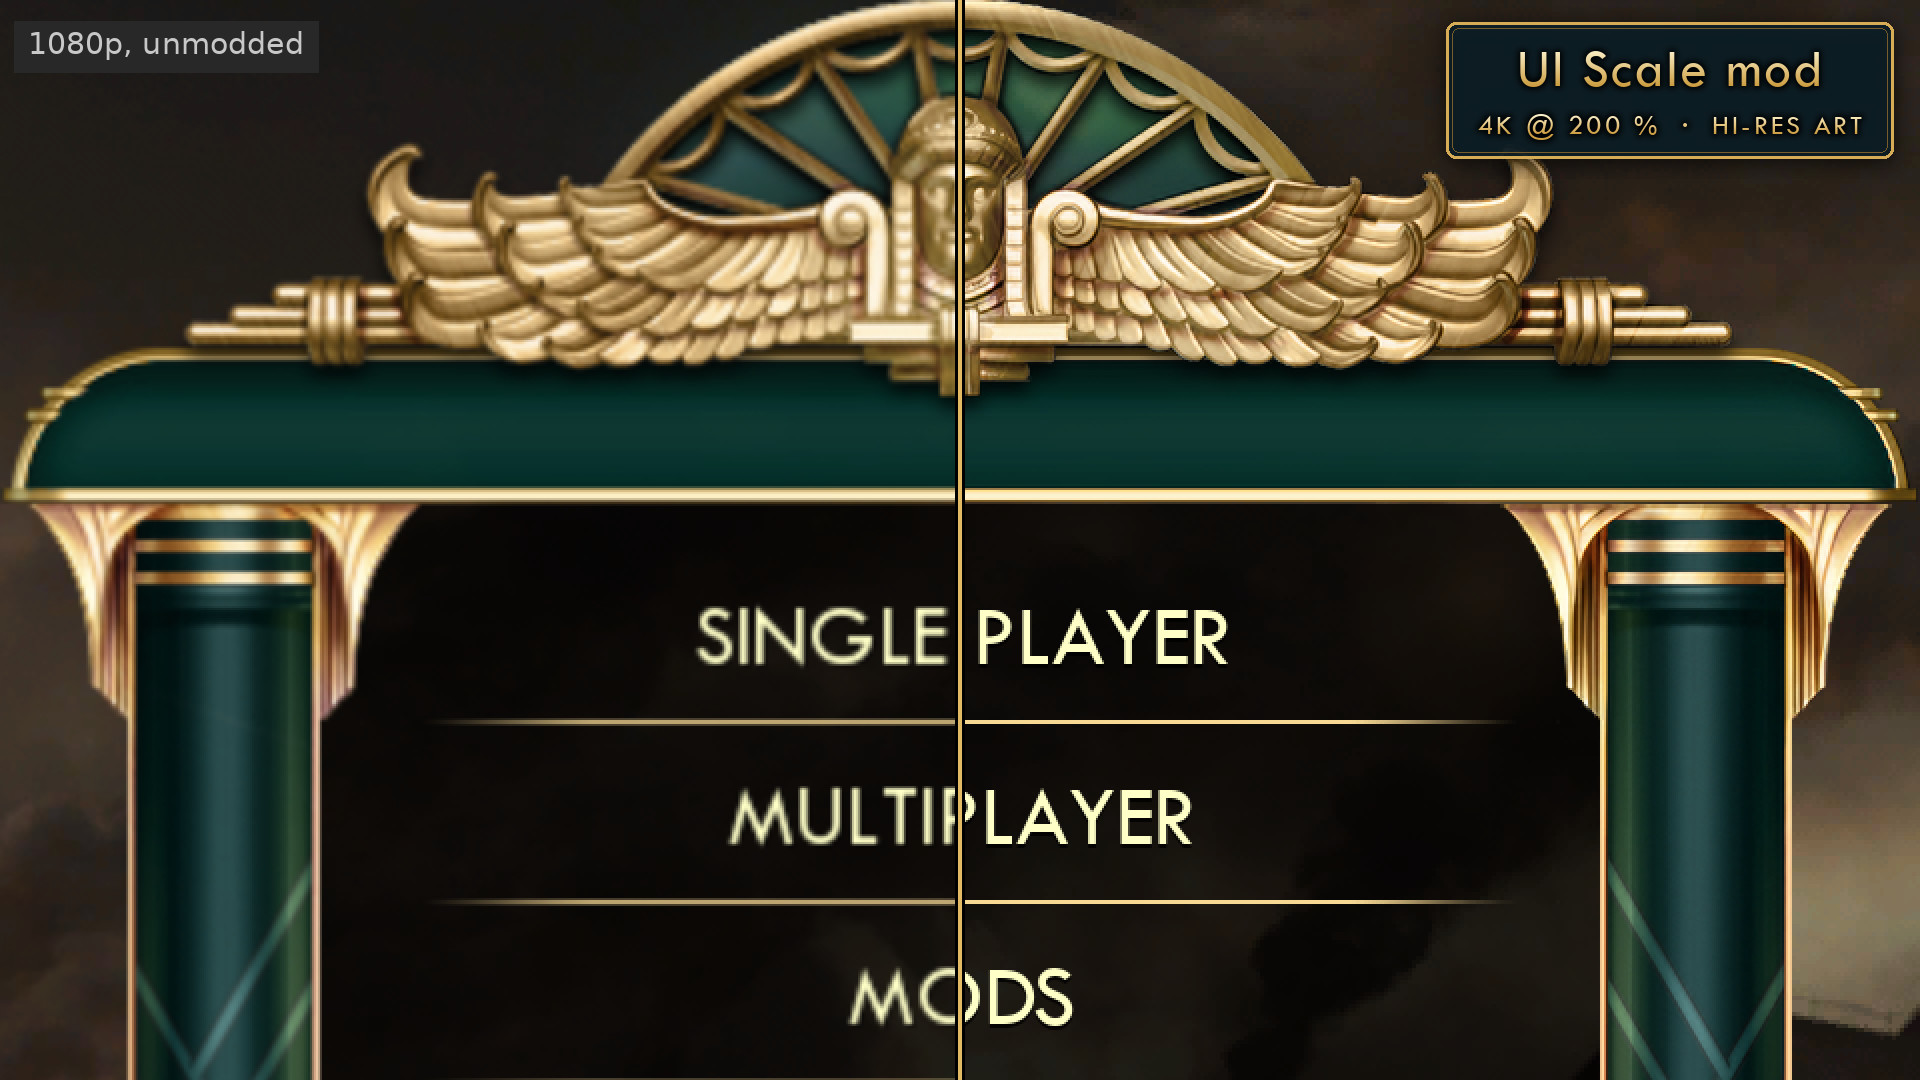
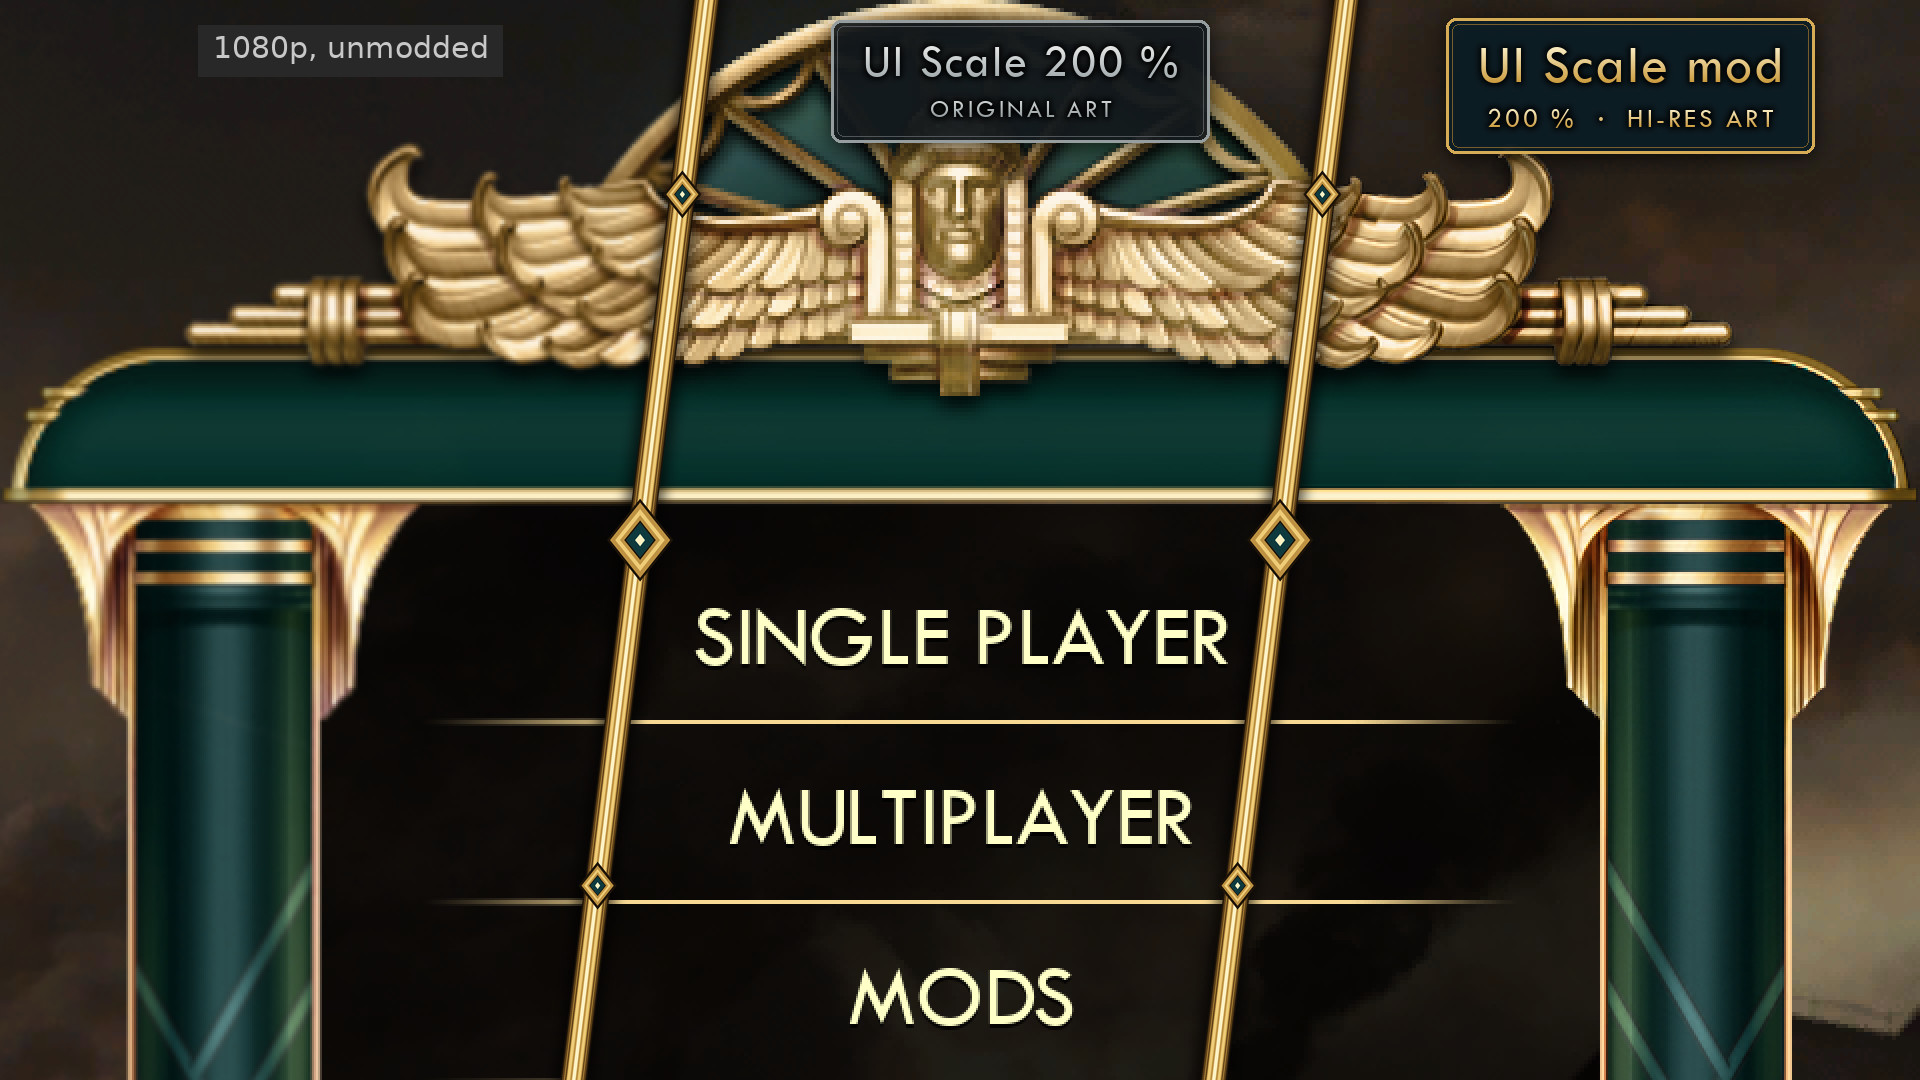
README: three-way screenshots, UI Scale option, EUI
- Zoomed splits now compare 1080p unmodded | 4K @ 200 % with the
  original art | 4K @ 200 % with the hi-res art, with angled gold
  dividers; fresh shots from the current build.
- New: the UI Scale option highlighted in the options menu, and EUI's
  city screen at 4K / 200 % (EUI's own icons as players get them).
- Map view at 100 / 150 / 200 % as slanted panels.

diff --git a/README.md b/README.md
@@ -17,17 +17,24 @@ this to the base game's menu).
 
 ## Screenshots
 
-Zoomed in, same spot on a 4K screen. Left of the line: the game at 1080p, stretched to the 4K
-screen. Right of the line: native 4K with the mod at 200 %, so everything is the same size.
+Zoomed in, same spot on a 4K screen, everything the same size. Left: the unmodded game at 1080p,
+stretched to the 4K screen. Middle: native 4K with UI Scale at 200 % and the game's original art.
+Right: the same with the hi-res art (it can be switched off with `AIArt=0`).
 
 ![City banner and unit flags](docs/compare_city_banner.jpg)
 ![Main menu](docs/compare_main_menu.jpg)
 ![Tech tree](docs/compare_tech_tree.jpg)
 ![Social policies](docs/compare_social_policies.jpg)
 
-The UI Scale slider at 4K: the top-right corner of the map view at 100, 150 and 200 %.
+The UI Scale slider in *Options → Interface Options*, and what it does at 4K: the top-right corner
+of the map view at 100, 150 and 200 %.
 
+![UI Scale option](docs/ui_scale_option.jpg)
 ![UI Scale 100, 150 and 200 %](docs/scaling_100_150_200.jpg)
+
+Enhanced UI at 4K / 200 % (EUI's own icons keep their original resolution):
+
+![EUI support](docs/eui_support.jpg)
 
 ## Install
 
